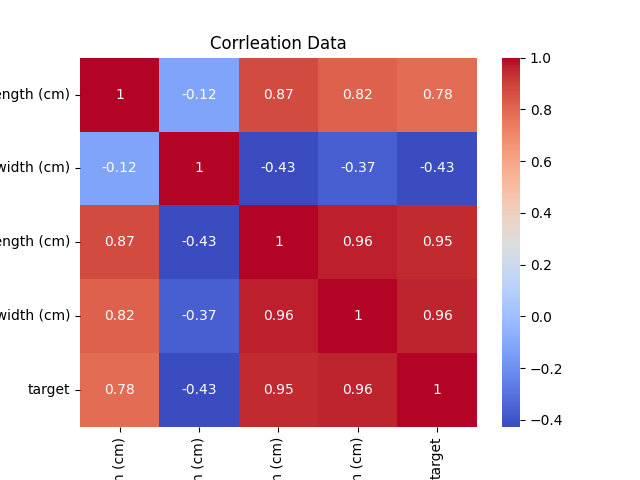
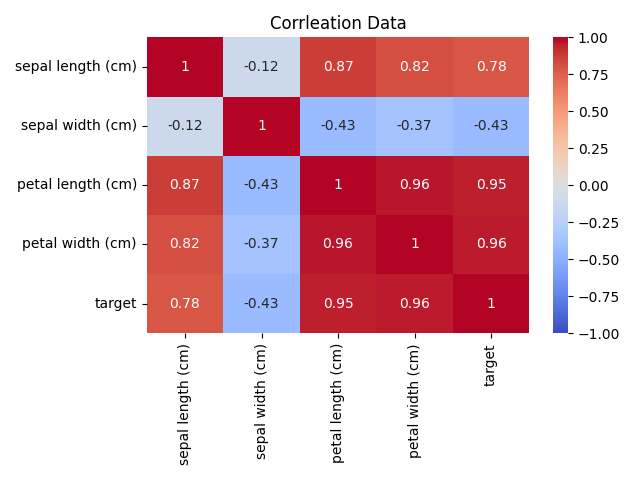
EDA files update the all modifications

diff --git a/src/EDA.py b/src/EDA.py
@@ -6,39 +6,55 @@ import numpy as np
 
 class EdaAnalysis:
     def __init__(self,path):
+        # Load the processed dataset and keep only numeric feature columns.
         self.path = path
         self.data = pd.read_csv(self.path)
+        self.features = self.data.select_dtypes(
+        include=np.number
+        ).drop(
+            columns=["target", "Species"],
+            errors="ignore"
+        )
 
     def feature_dist(self):
-        self.data.hist(figsize=(10,10))
-        plt.title("Features Distribution")
+        # Create histograms to show the distribution of each feature.
+        self.features.hist(figsize=(10,10))
+        plt.title("Distribution of Iris Features")
+        plt.tight_layout()
         plt.savefig("images/feature_dist.png")
         plt.show()
 
     def compare_features(self):
-        self.data.boxplot(figsize=(10,10))
-        plt.title("Outliers vs Spread vs Median")
+        # Use box plots to compare feature ranges and spot outliers.
+        self.features.boxplot(figsize=(10,10))
+        plt.title("Box Plot of Iris Features")
+        plt.tight_layout()
         plt.savefig("images/feature_compare.png")
         plt.show()
 
     def relation_btw_features(self):
-        plt.scatter(self.data["petal length (cm)"],
-    self.data["petal width (cm)"])
-        plt.xlabel("Petal Length")
-        plt.ylabel("Petal Width")
+        # Show how petal length and width change for each iris species.
+        sns.scatterplot(data = self.data,
+                    x = "petal length (cm)",
+                    y ="petal width (cm)",
+                    hue="species")
         plt.title("Relation between features")
+        plt.tight_layout()
         plt.savefig("images/relation_features.png")
         plt.show()
 
     def corrleation_data(self):
+        # Calculate and display the correlation between numeric columns.
         corr = self.data.select_dtypes(include=np.number).corr()
 
-        sns.heatmap(corr,cmap="coolwarm",annot=True)
+        sns.heatmap(corr,cmap="coolwarm",annot=True,vmin=-1,vmax=1)
         plt.title("Corrleation Data")
+        plt.tight_layout()
         plt.savefig("images/corrleation_data.png")
         plt.show()
 
     def main(self):
+        # Run all exploratory data analysis plots.
         self.feature_dist()
         self.compare_features()
         self.relation_btw_features()

diff --git a/src/processed_data.py b/src/processed_data.py
@@ -7,16 +7,21 @@ from sklearn.datasets import load_iris
 
 def process_iris(output_path=None):
     """Process the Iris dataset and save it as a CSV file."""
+    # Load the built-in Iris data and place it in a table.
     iris = load_iris()
     processed_data = pd.DataFrame(iris.data, columns=iris.feature_names)
+
+    # Add the numeric target and the readable species name.
     processed_data["target"] = iris.target
     processed_data["species"] = [iris.target_names[target] for target in iris.target]
 
+    # Use the project data folder unless a different path is provided.
     if output_path is None:
         output_path = Path(__file__).resolve().parents[1] / "data" / "iris_processed.csv"
     else:
         output_path = Path(output_path)
 
+    # Create the output folder and save the data without row numbers.
     output_path.parent.mkdir(parents=True, exist_ok=True)
     processed_data.to_csv(output_path, index=False)
     return processed_data, output_path
@@ -24,6 +29,7 @@ def process_iris(output_path=None):
 
 def display_data_summary(data):
     """Display the main structure and statistics of the processed data."""
+    # Print useful checks about the dataset.
     print("\nFirst five rows:")
     print(data.head())
 
